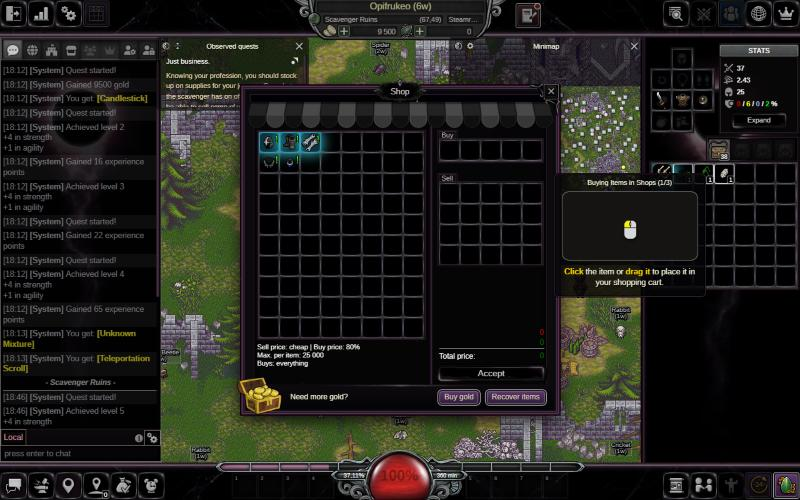
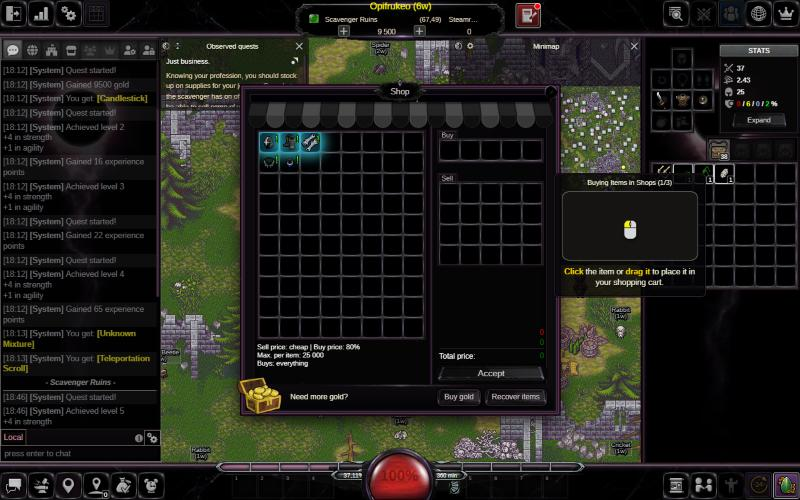
Czarna Dziura 1.3.0: wariant 1 – obsydianowa tabliczka HUD, listwa i pierścień kuli HP, dysk zamykania okien, nowe przyciski (także fioletowe przyciski gry)

diff --git a/margonem-czarna-dziura/czarna-dziura.user.js b/margonem-czarna-dziura/czarna-dziura.user.js
@@ -2,7 +2,7 @@
 // @name         Margonem – Czarna Dziura
 // @namespace    https://github.com/Harkryn/Dodatki
 // @author       Harkryn
-// @version      1.2.1
+// @version      1.3.0
 // @description  Mroczny motyw interfejsu Margonem w barwach czarnej dziury: głęboka czerń, popiel i przygaszona śliwka. Tylko wygląd – bez zmian w logice gry i mapie.
 // @match        https://*.margonem.pl/*
 // @match        https://margonem.pl/*
@@ -24,7 +24,7 @@
 
   if (window.top !== window.self) return;
 
-  const VERSION = '1.2.1';
+  const VERSION = '1.3.0';
   // Grafiki: assets/czarna-dziura/ w repo, serwowane przez jsDelivr spod tagu wersji
   // (tag czarna-dziura-X.Y.Z), żeby po aktualizacji CDN nie podawał starych plików z cache @main.
   const A = `https://cdn.jsdelivr.net/gh/Harkryn/Dodatki@czarna-dziura-${VERSION}/assets/czarna-dziura`;
@@ -73,12 +73,15 @@ html.${ON_CLASS} .border-window:not(.transparent):not(.tip-window) .header-label
 html.${ON_CLASS} .border-window:not(.transparent):not(.tip-window) .header-label-positioner .header-label .right-decor {
   background: none !important;
 }
-/* przycisk zamknięcia: oryginalny „X”, przygaszony do grafitu */
+/* przycisk zamknięcia: obsydianowy dysk z wygrawerowanym „X” (bez ozdobnego narożnika gry) */
 html.${ON_CLASS} .border-window:not(.transparent):not(.tip-window) .close-button-corner-decor {
-  filter: grayscale(.9) brightness(.7) contrast(1.1);
+  background: none !important;
+}
+html.${ON_CLASS} .border-window:not(.transparent):not(.tip-window) .close-button-corner-decor .close-button {
+  background: url("${A}/close.webp") center / 100% 100% no-repeat !important;
 }
 html.${ON_CLASS} .border-window:not(.transparent):not(.tip-window) .close-button-corner-decor .close-button:hover {
-  filter: brightness(1.4);
+  filter: brightness(1.5) drop-shadow(0 0 3px rgba(130, 70, 120, .7));
 }
 /* zakładki */
 html.${ON_CLASS} .border-window .card {
@@ -129,6 +132,14 @@ html.${ON_CLASS} .button.green:not(.background-gold):not(.background-draconite):
   background-image: url("${A}/button-hover.webp") !important;
   box-shadow: 0 0 0 1px #000, 0 0 6px var(--cdz-glow) !important;
 }
+/* fioletowe przyciski gry (np. „Kup złoto”) – ten sam obsydian, śliwkowy obrys zostaje jako wyróżnik */
+html.${ON_CLASS} .button.purple:not(.green) {
+  background: url("${A}/button.webp") center / 100% 100% no-repeat, #070608 !important;
+  box-shadow: 0 0 0 1px #000, inset 0 0 0 1px rgba(110, 60, 100, .55) !important;
+}
+html.${ON_CLASS} .button.purple:not(.green):hover { background-image: url("${A}/button-hover.webp") !important; }
+html.${ON_CLASS} .button.purple:not(.green)::before { box-shadow: none !important; background: none !important; }
+html.${ON_CLASS} .button.purple:not(.green) .label { color: #d9c6d3 !important; text-shadow: 0 1px 2px #000; }
 html.${ON_CLASS} .button.green::before { box-shadow: none !important; }
 html.${ON_CLASS} .button.green .label { color: #ddd4d9 !important; text-shadow: 0 1px 2px #000; }
 html.${ON_CLASS} .widget-button.green {
@@ -146,9 +157,22 @@ html.${ON_CLASS} .interface-layer > .top.positioner > .bg {
 html.${ON_CLASS} .interface-layer > .bottom.positioner > .bg {
   background: url("${A}/bar-bottom.webp") left top / auto 100% repeat-x, var(--cdz-bg) !important;
 }
-html.${ON_CLASS} .interface-layer .bottom-panel-graphic,
+/* tabliczka z imieniem: obsydianowa rama 9-slice */
 html.${ON_CLASS} .interface-layer .hud-container {
-  filter: grayscale(.75) brightness(.72) contrast(1.05);
+  background: none !important;
+  border-style: solid !important;
+  border-width: 0 !important;
+  border-image: url("${A}/hud-plate.webp") 40 90 40 90 fill / 14px 32px 14px 32px / 0 stretch !important;
+}
+html.${ON_CLASS} .interface-layer .hud-container .btn-min { filter: grayscale(.9) brightness(.75); }
+/* dolny panel: obsydianowe skrzydła listwy, pierścień kuli rysowany osobno */
+html.${ON_CLASS} .interface-layer .bottom-panel-graphic {
+  background: url("${A}/orb-wings.webp") center 8px / 590px 88px no-repeat !important;
+}
+html.${ON_CLASS} .bottom-panel-of-bottom-positioner .hp-indicator-wrapper {
+  border-style: solid !important;
+  border-width: 0 !important;
+  border-image: url("${A}/orb-ring.webp") 0 fill / 0 / 10px stretch !important;
 }
 /* ledwo widoczna, wolno pulsująca poświata wokół kuli HP (sama kula bez zmian) */
 html.${ON_CLASS} .bottom-panel-of-bottom-positioner .glass {

diff --git a/README.md b/README.md
@@ -170,10 +170,12 @@ Grafiki leżą w [assets/dark-star/](assets/dark-star/) (PNG, do ok. 100 KB każ
 Mroczny motyw interfejsu w barwach czarnej dziury: głęboka czerń, popiel i przygaszona śliwka jako jedyny akcent, bez jaskrawych poświat. Tekst, ikony przedmiotów, paski i czat zostają czytelne. Grafiki wygenerowane na Hugging Face (FLUX.1 Krea, seed 666) i obrobione lokalnie.
 
 Co jest ostylowane:
-- **okna z ramką** — cienka ramka 9-slice (`border-image`, skaluje się do każdego rozmiaru) w ciemnej śliwce, tło z ledwo widocznym gwiezdnym pyłem, ciemna tabliczka tytułu z przygaszonym pierścieniem zaćmienia (9-slice z outsetem, układ okna bez zmian), przycisk zamknięcia w grafitowym kolorze, zakładki, panele wewnętrzne, dolny pasek okna,
+- **okna z ramką** — cienka ramka 9-slice (`border-image`, skaluje się do każdego rozmiaru) w ciemnej śliwce, tło z ledwo widocznym gwiezdnym pyłem, ciemna tabliczka tytułu z przygaszonym pierścieniem zaćmienia (9-slice z outsetem, układ okna bez zmian), przycisk zamknięcia jako obsydianowy dysk z wygrawerowanym „X”, zakładki, panele wewnętrzne, dolny pasek okna,
 - **okna przezroczyste** (minimapa, obserwowane zadania) i **dialog z NPC** — czerń z cienką śliwkową obwódką,
-- **przyciski** — ciemna obsydianowa płytka z przygaszonym obrysem i jaśniejszym stanem po najechaniu; przyciski widgetów jako ciemne obsydianowe kafle (normal/hover); czerwone, złote i smocze przyciski gry bez zmian,
+- **przyciski** — czarna, szklista obsydianowa płytka z cienkim śliwkowym brzegiem i jaśniejszym stanem po najechaniu (także fioletowe przyciski gry, np. „Kup złoto”); przyciski widgetów jako ciemne obsydianowe kafle (normal/hover); czerwone, złote i smocze przyciski gry bez zmian,
 - **górna i dolna belka** — czarny obsydian z ledwo widocznymi żyłkami i przygaszoną linią światła,
+- **tabliczka z imieniem (HUD)** — cienka obsydianowa rama z ornamentem w rogach (9-slice), przyciski walut odbarwione,
+- **dolny panel** — obsydianowa listwa ze skrzydłami i pierścień w ciemnej śliwce wokół kuli HP (pierścień rysowany przez `border-image-outset`, etykiety obok kuli zostają widoczne),
 - **kolumny czatu i ekwipunku** — mocno przygaszona ilustracja czarnej dziury z mgławicą spływającą w dół (pod czatem dodatkowo przyciemniona), ciemna linia na krawędzi kolumny,
 - **ekwipunek, torba, statystyki** — ciemne obramowania, własne sloty (obsydianowe wnęki z cienkim obrysem),
 - **paski** — HP w ciemnym szkarłacie, EXP w przygaszonej śliwce (także dolny pasek EXP),
@@ -195,4 +197,4 @@ Instalacja:
 
 Wyłączanie: **Ctrl+Alt+B** albo ikona Tampermonkey → „Czarna Dziura: włącz / wyłącz” (działa od razu, wybór jest zapamiętywany).
 
-Grafiki leżą w [assets/czarna-dziura/](assets/czarna-dziura/) (14 plików WebP, razem ok. 30 KB) i są ładowane przez jsDelivr spod tagu wersji (`czarna-dziura-X.Y.Z`), więc po aktualizacji nie ma starych grafik z cache. Zrzuty przed/po: [margonem-czarna-dziura/screenshots/](margonem-czarna-dziura/screenshots/).
+Grafiki leżą w [assets/czarna-dziura/](assets/czarna-dziura/) (18 plików WebP, razem ok. 52 KB) i są ładowane przez jsDelivr spod tagu wersji (`czarna-dziura-X.Y.Z`), więc po aktualizacji nie ma starych grafik z cache. Zrzuty przed/po: [margonem-czarna-dziura/screenshots/](margonem-czarna-dziura/screenshots/).
